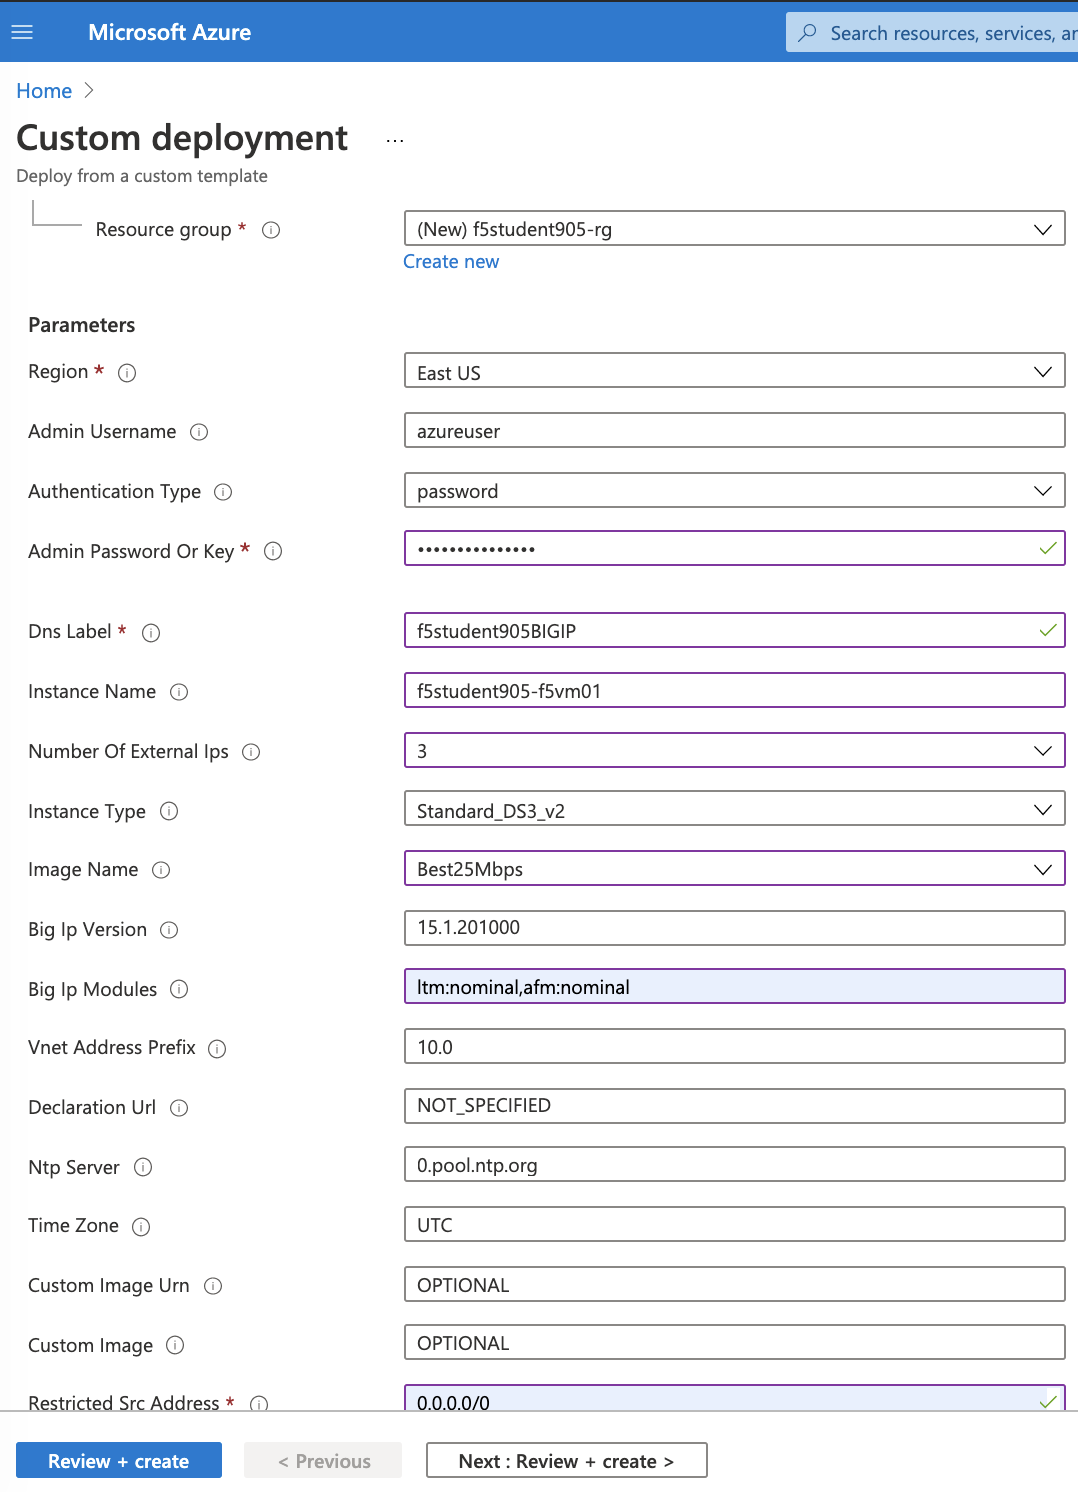
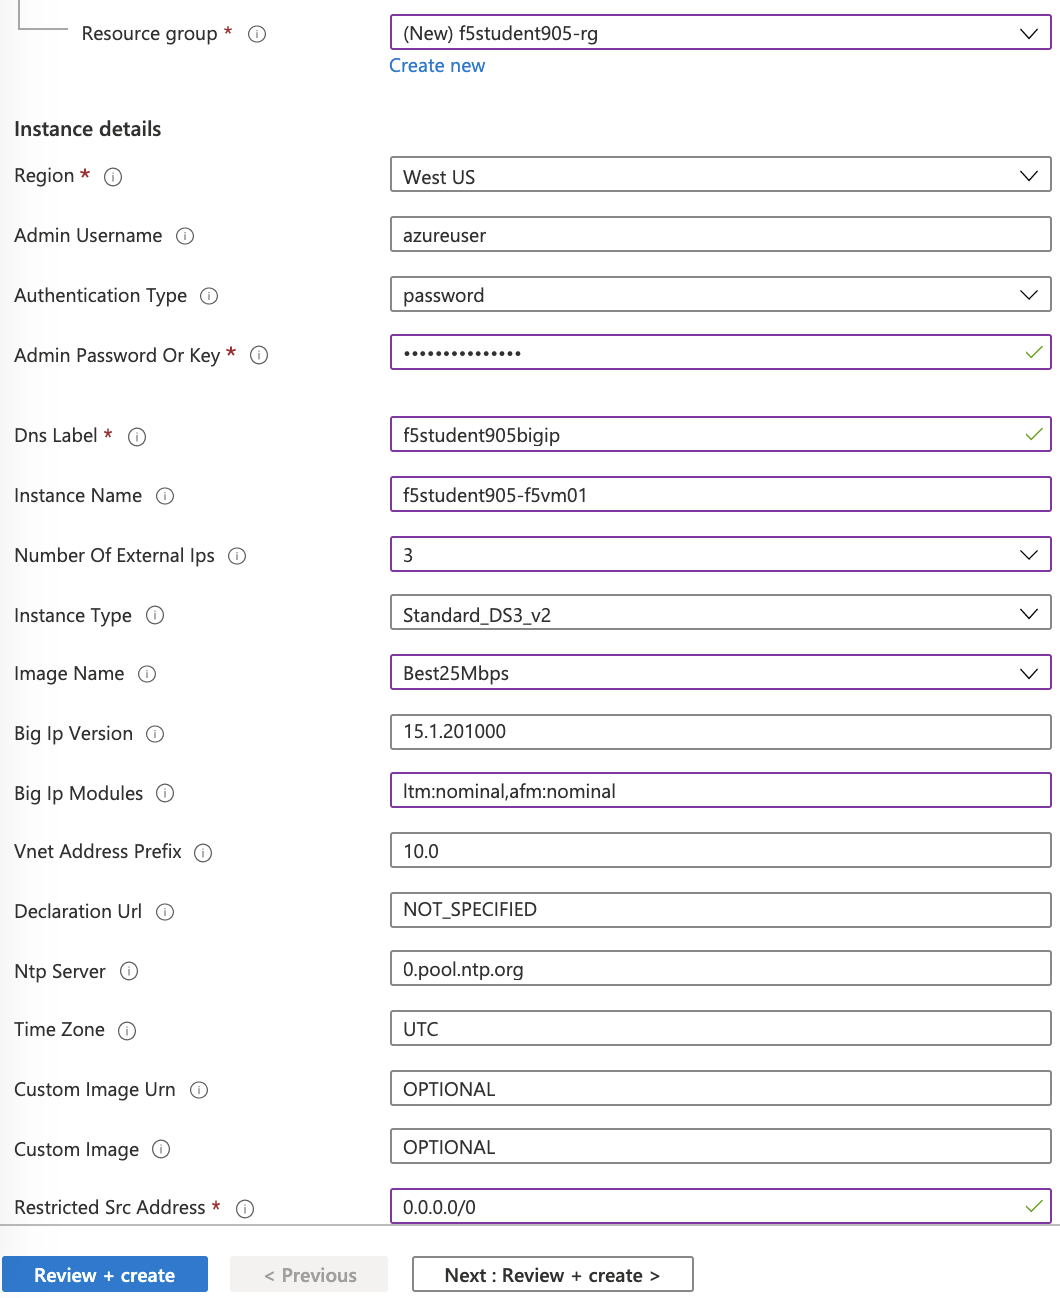
additional clarity bigip-base

diff --git a/docs/class01/bigip-base.rst b/docs/class01/bigip-base.rst
@@ -65,31 +65,40 @@ BIG-IP Network Addressing
       - app2-ipconfig1 (Primary)
       - 10.0.3.6
       - NAT target and pool (VPN)
-      
-#. Validate the IP addresses in the table above and capture the missing public IP addresses
+
+#. Copy and paste the table above to a text editor.  Validate the predicted IP addresses and update with actual IP addresses from your environment if different.  Fill in the missing public IP addresses.  You will need to refer back to this table throughout the lab.
     - Browse to BIG-IP GUI Network->Self IPs to capture external and internal nics and associated ip addresses
+
     .. image:: ./images/selfip.png
-  
-    - Browse to Azure bigip-ext->ip config to capture BIG-IP Networking info, enable ip forwarding and then click Save
+
+    - Browse to Azure f5student#bigip-ext->ip config to capture BIG-IP Networking info, enable ip forwarding and then click Save
+
     .. image:: ./images/externalforward2.png
 
 
-    - Browse to Azure bigip-int->ip config to capture BIG-IP Networking info, enable ip forwarding and add Secondary IP
+    - Browse to Azure f5student#bigip-int->ip config to capture BIG-IP Networking info, enable ip forwarding and add Secondary IP
+
     .. image:: ./images/vpn2.png
 
 
     - Adding Secondary IP (VIP1)
+
     .. image:: ./images/vpn3.png
 
     .. image:: ./images/vpn4.png
- %
 
-#. Connect to BIG-IP TMOS CLI
-    - serial console to f5student###-f5vm01
+#. Connect to BIG-IP CLI. 
+    - browse to Azure f5student#-f5vm01 and select Serial console
     - login: azureuser
     - password: ChangeMeNow123!
 
-#. Configure SELF IP's to allow for VPN termination
+    .. image:: ./images/f5vm01.png
+      :scale: 40 %
+
+    .. image:: ./images/bigipserial.png
+      :scale: 40 %
+
+#. Configure SELF IP's to allow for VPN termination on external interface and allow none on internal interface
 
    .. code-block:: shell
 
@@ -104,7 +113,7 @@ BIG-IP Network Addressing
        modify sys db ipsec.if.checkpolicy { value "disable" }
        modify sys db connection.vlankeyed { value "disable" }
 
-#. Configure local DNS cache for the F5 Firewall by getting the internal Self IP address from the table above. Replace  **10.0.3.4** with INTERNAL SELF IP address from the info captured in the table above.
+#. Configure local DNS cache for the F5 Firewall by getting the internal Self IP address from the table above. Replace **10.0.3.4** with INTERNAL SELF IP address from the info captured in the table above if different
 
    .. code-block:: shell
 
@@ -115,7 +124,7 @@ BIG-IP Network Addressing
        create ltm virtual DNS_CACHE_UDP { destination 10.0.3.4:53 ip-protocol udp pool AZURE_VNET_DNS profiles replace-all-with { udp {} DNS_CACHE {} } vlans-enabled vlans replace-all-with { internal } }
        create net dns-resolver LOCAL_CACHE { answer-default-zones yes forward-zones replace-all-with { . { nameservers replace-all-with { 10.0.3.4:53 } } } }
 
-   - Confirm these two virtual servers we created on the firewall.
+   - Browse to BIG-IP GUI Local Traffic->Network Map to confirm two virtual servers and associated pool member was created
       .. image:: ./images/dnscache.png
 
 #. Configure FQDN resolution of AFM against Azure VNET DNS, Configure AFM local logging, etc.
@@ -200,32 +209,73 @@ BIG-IP Network Addressing
 
 #. Change Azure VNET routing, enable forwarding, etc and test basic configuration.
 
-   - Create Azure UDR (user defined route) 0.0.0.0/0 to the AFM Internal Self IP.  Ensure you start from your f5student###-rg
-
-   .. image:: ./images/azureroute7.png
+   - Create Azure UDR (user defined route) 0.0.0.0/0 to the AFM Internal Self IP.  Browse to your f5student#-rg then click "Add"
 
    .. image:: ./images/azureroute8.png
+      :scale: 60 %
+
+   - Search for route table then click "Create"
 
    .. image:: ./images/azureroute9.png
+      :scale: 60 %
+
+   - complete route table with following values
+
+   +-------------------------+--------------------------+
+   | Resource Group          | f5student#-rg            |
+   +-------------------------+--------------------------+
+   | Name                    | f5student#-udr           |
+   +-------------------------+--------------------------+
+   | Propagate Gateway routes| Yes                      |
+   +-------------------------+--------------------------+
 
    .. image:: ./images/azureroute10.png
+      :scale: 60 %
 
-   .. image:: ./images/azureroute11.png
+   - click "Review + create" then "Create"
+   - after Deployment completed click "Go to resource"
+   - click "Routes" then "Add"
 
    .. image:: ./images/azureroute12.png
+      :scale: 60 %
+
+   - Add Route using the following values
+
+   +-------------------------+--------------------------+
+   | Route Name              | Default-AFM              |
+   +-------------------------+--------------------------+
+   | Address prefix          | 0.0.0.0/0                |
+   +-------------------------+--------------------------+
+   | Next hop type           | Virtual Appliance        |
+   +-------------------------+--------------------------+
+   | Next hop address        | 10.0.3.4                 |
+   +-------------------------+--------------------------+
 
    .. image:: ./images/azureroute13.png
-    
+      :scale: 60 %
+
+   - click "Subnets" then "Associate"
+   - Add Subnet using the following values
+
+   +-------------------------+----------------------------+
+   | Virtual network         | f5student#bigip-vnet       |
+   +-------------------------+----------------------------+
+   | Subnet                  | internal                   |
+   +-------------------------+----------------------------+
+
    .. image:: ./images/azureroute14.png
+      :scale: 60 %
+
+   - click "OK" then "Overview" to ensure results match the image below
 
    .. image:: ./images/azureroute15.png
+      :scale: 60 %
 
 #. Ping Google to ensure working config
 
    .. code-block:: shell
 
       ping -c 3 google.com
-
 
 Demonstrate Egress filtering
 ~~~~~~~~~~~~~~~~~~~~~~~~~~~~
@@ -235,6 +285,9 @@ Demonstrate Egress filtering
    .. code-block:: shell
 
       modify security firewall policy OUTBOUND-FORWARDING rules none
+
+   .. image:: ./images/outboundallow.png
+      :scale: 60 %
 
 #. You will confirm outbound access is now blocked from each the APP servers.  You need to serial console into the app servers to ping from them. Screenshots and details below.
 
@@ -253,7 +306,7 @@ Demonstrate Egress filtering
    .. code-block:: shell
 
       ping -c 3 google.com
-      ping -c 3 1.1.1.1
+      ping -c 3 1.0.0.1
 
    .. image:: ./images/pinggoogle.png
     
@@ -279,8 +332,8 @@ Demonstrate Egress filtering
 
    .. code-block:: shell
 
-      ping -c google.com
-      ping -c 1.1.1.1
+      ping -c 3 google.com
+      ping -c 3 1.1.1.1
 
    .. image:: ./images/pingcloudflare.png
 

diff --git a/docs/class01/deploy-azure.rst b/docs/class01/deploy-azure.rst
@@ -21,7 +21,7 @@ Launch BIG-IP 3nic stack
    - Username : f5student#@f5custlabs.onmicrosoft.com
    - Password:  ChangeMe123
 
-#. Complete the Customized template with the following values **(don’t follow the screen shot)**
+#. Complete the Customized template using the following values **(replace # with your student number to avoid conflicts)**
 
    +------------------------+--------------------------+
    | Resource Group         | Select Create New        |
@@ -34,9 +34,9 @@ Launch BIG-IP 3nic stack
    +------------------------+--------------------------+
    | Admin Password         | ChangeMeNow123!          |
    +------------------------+--------------------------+
-   | DNS Label              | f5student#BIGIP          |
+   | DNS Label              | f5student#bigip          |
    +------------------------+--------------------------+
-   | Instance Name          | f5student-f5vm01         |
+   | Instance Name          | f5student#-f5vm01        |
    +------------------------+--------------------------+
    | Number of External IPs | 3                        |                      
    +------------------------+--------------------------+
@@ -49,6 +49,7 @@ Launch BIG-IP 3nic stack
 
    .. image:: ./images/arm3nic.png
       :scale: 40 %
+
 #. Click the “Review + Create”
 #. Click “Create” after confirming entries
 #. This will take appoximately 10 minutes
@@ -81,6 +82,9 @@ Deploy App Servers
    | Public inbound ports   | none                     |
    +------------------------+--------------------------+
 
+   .. image:: ./images/ubuntucreate.png
+      :scale: 40 %
+      
    - click "Next : Disks"
 
    +------------------------+--------------------------+
@@ -91,6 +95,9 @@ Deploy App Servers
    | Storage Account        | select your rg from list |
    +------------------------+--------------------------+
 
+   .. image:: ./images/ubuntudisk.png
+      :scale: 40 %
+     
    - click "Next : Networking"
 
    +------------------------+--------------------------+
@@ -101,6 +108,9 @@ Deploy App Servers
    | NIC security group     | None                     |
    +------------------------+--------------------------+
 
+   .. image:: ./images/ubuntunetwork.png
+      :scale: 40 %
+     
    - click "Review + create"
 
 #. Click “Create” after confirming entries
@@ -108,7 +118,7 @@ Deploy App Servers
 
    - Continue when deployment completed
 
-#. Deploy App2
+#. Repeat previous steps to deploy App2
 
    - Click "Add"
    - Select Ubuntu Server 18.04 LTS
